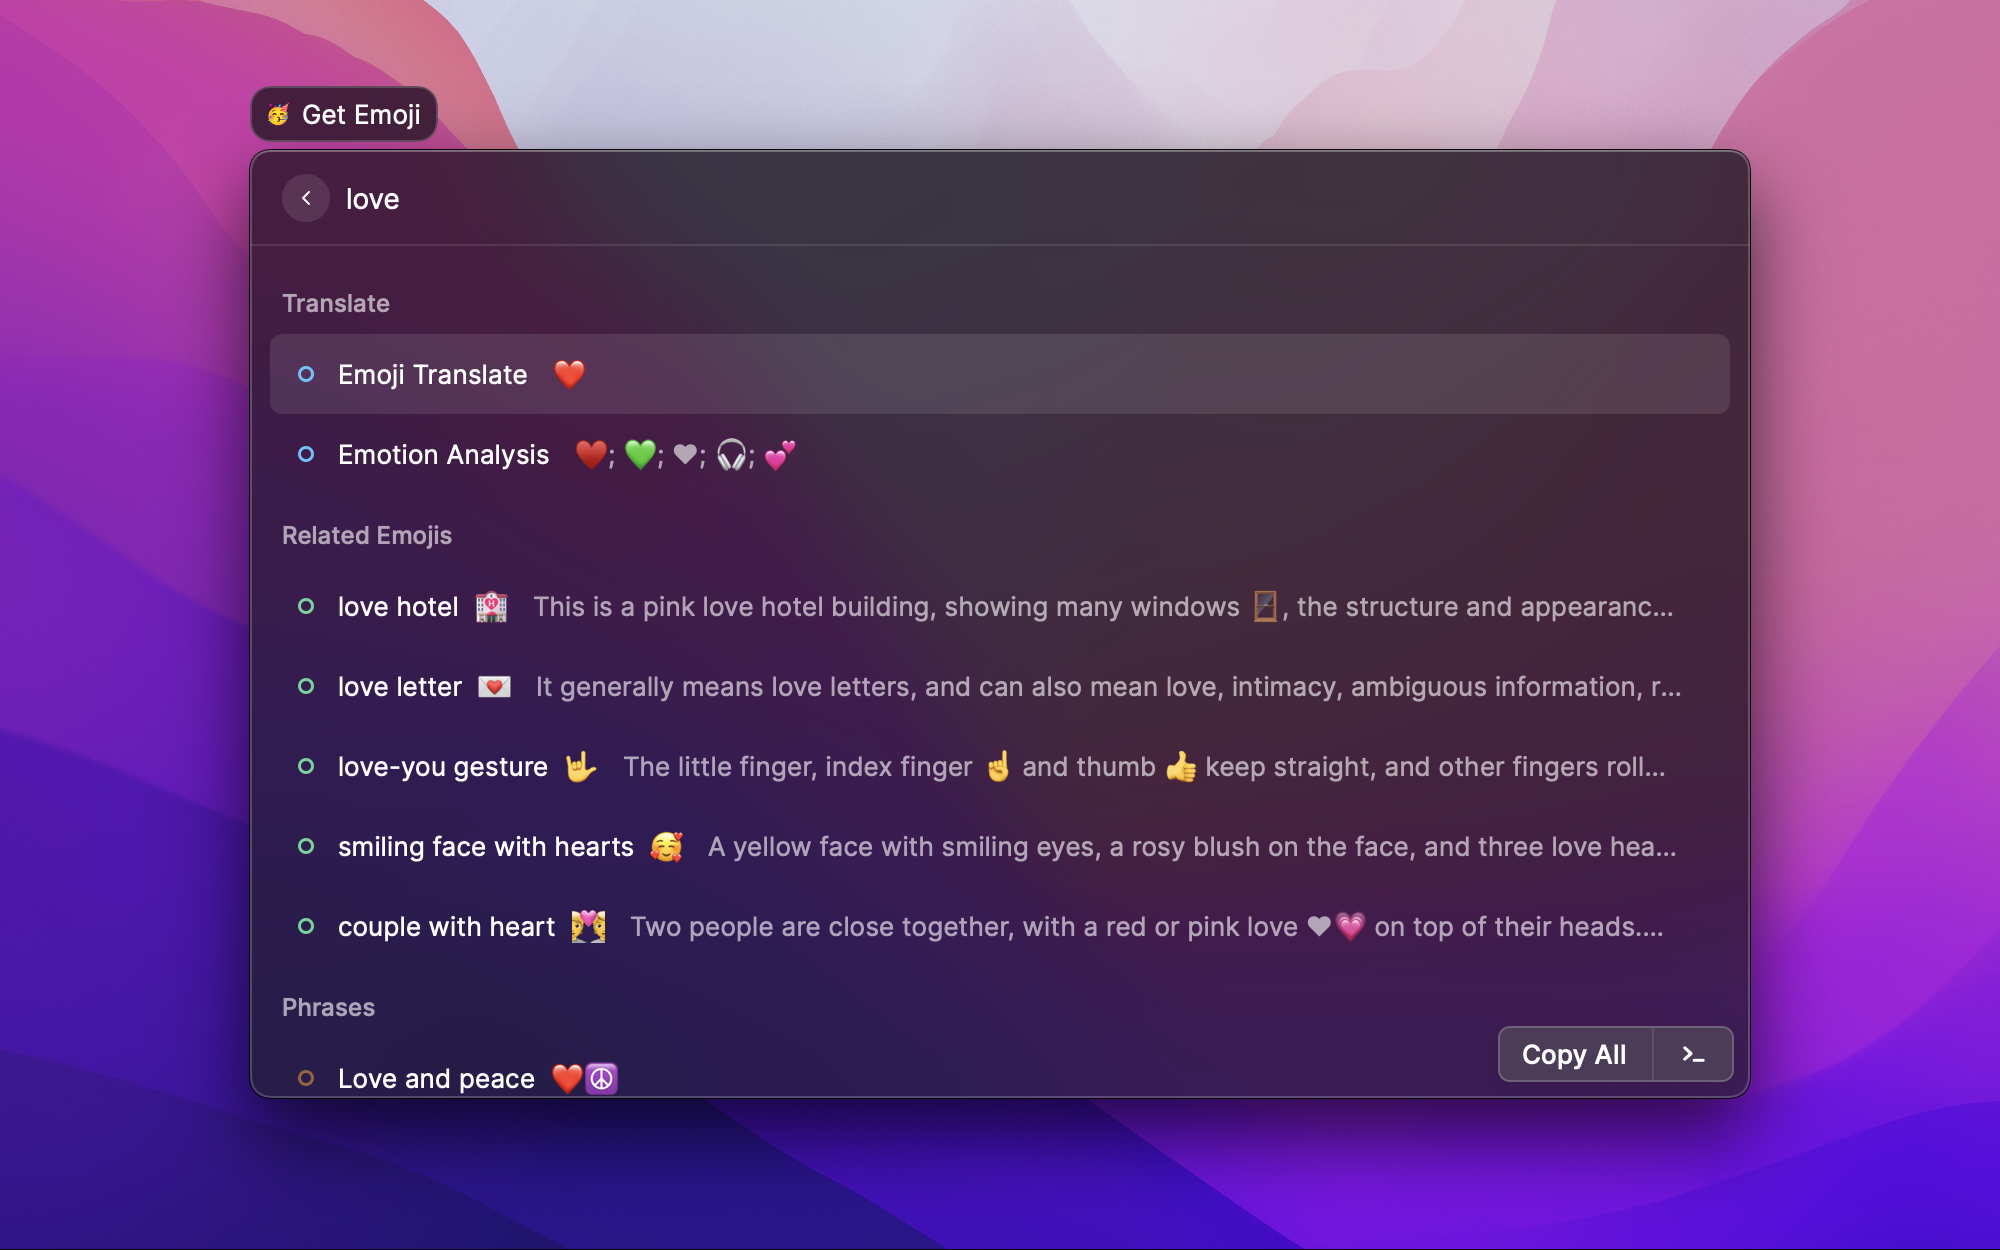
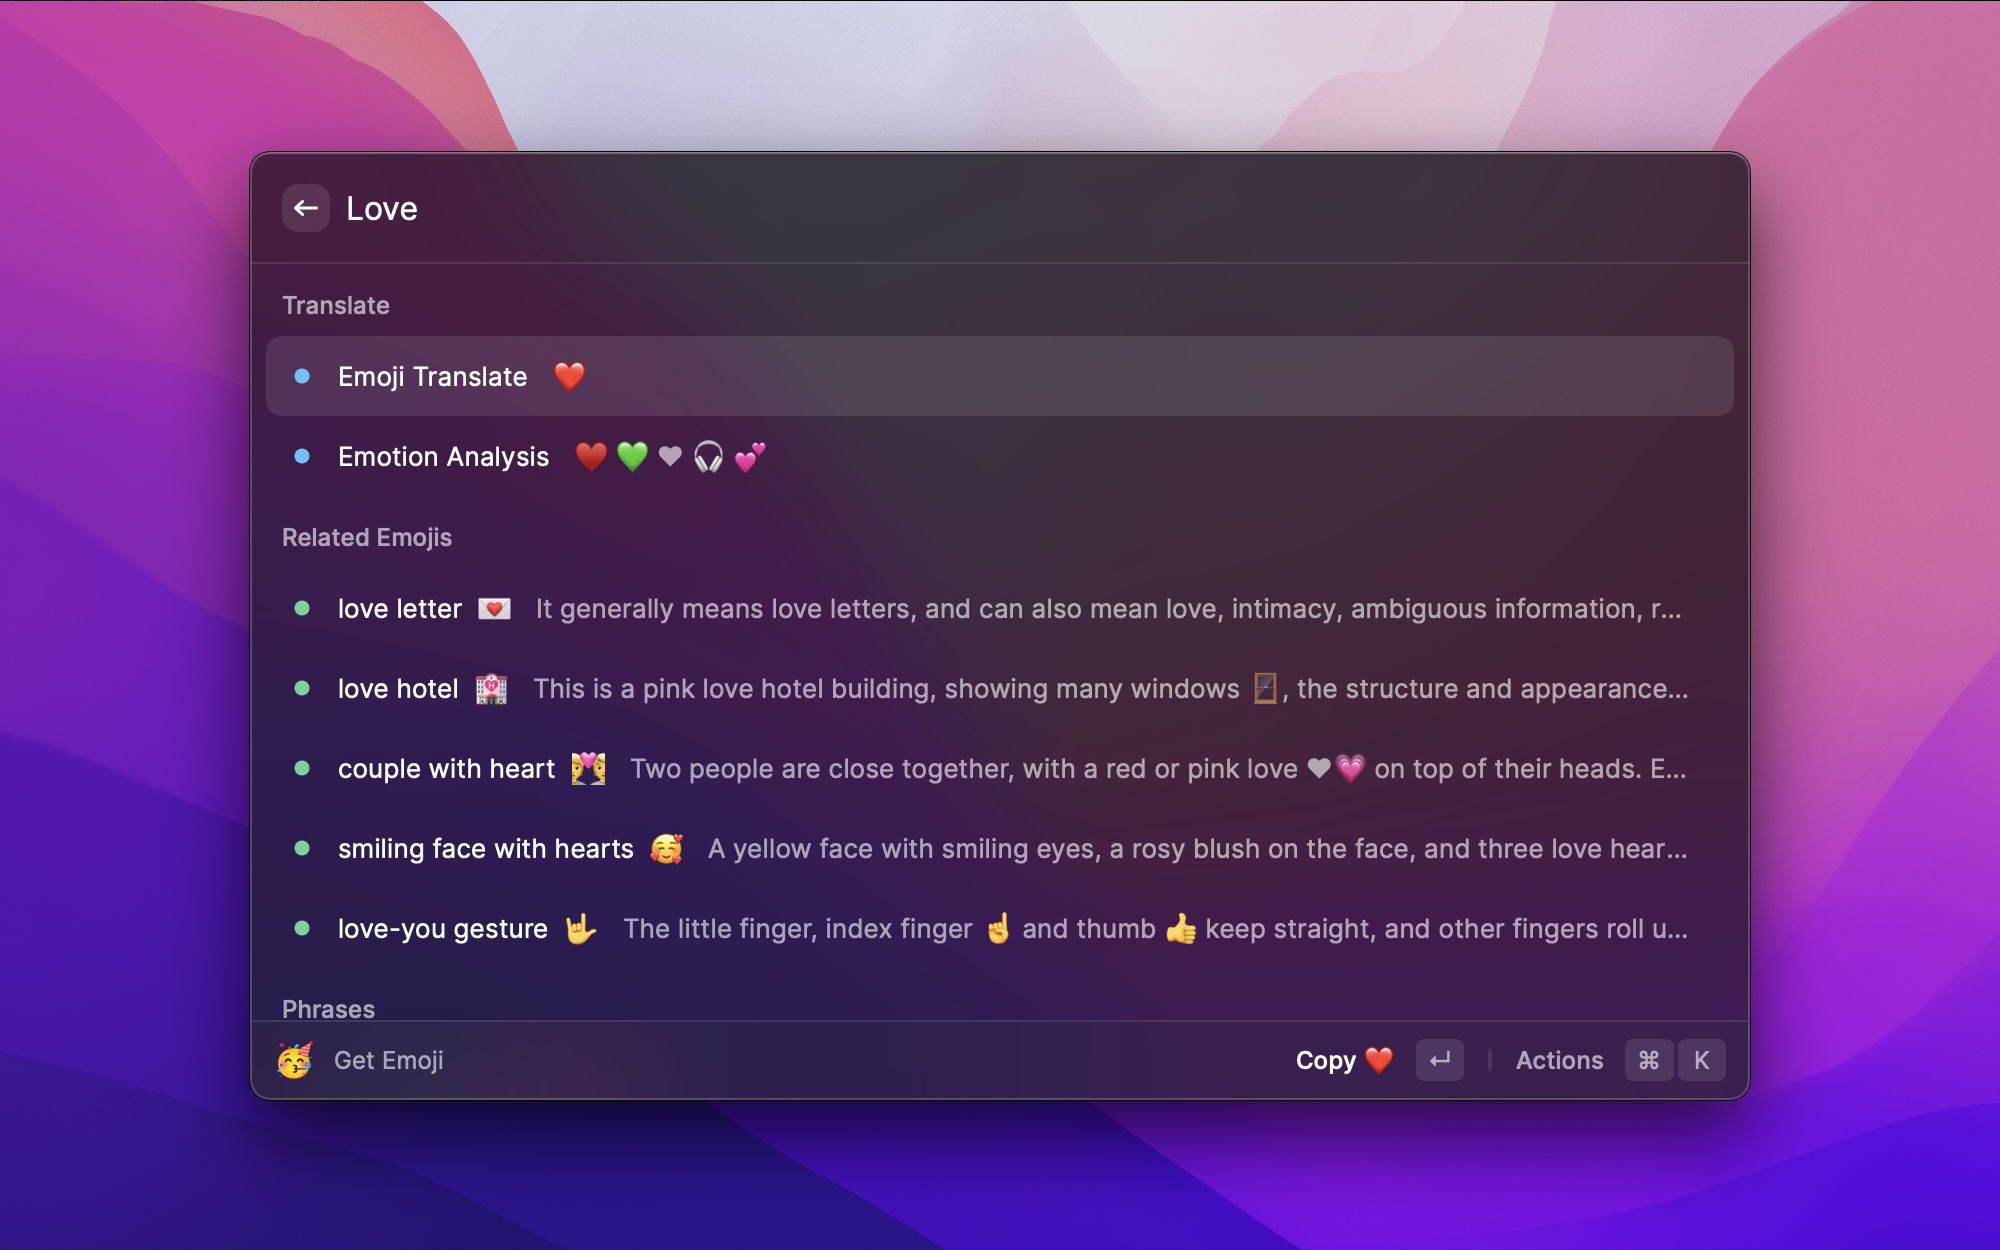
Update Screenshots & Remove Comments

diff --git a/src/dlmoji.tsx b/src/dlmoji.tsx
@@ -42,8 +42,8 @@ export default function () {
 
         // String Filter
         const queryGlobal: string = inputState
-        const queryText: string = queryGlobal //.replace(/陈炤伶|伶仔|伶伶/g, "公主").replace(/邓港大/g, "猪")
-        const queryEmoji: string = queryGlobal //.replace(/陈炤伶|伶仔|伶伶/g, "🐰").replace(/邓港大/g, "🦊")
+        const queryText: string = queryGlobal //.replace(/Jolin|Ling/g, "princess").replace(/Danny/g, "prince")
+        const queryEmoji: string = queryGlobal //.replace(/Jolin|Ling/g, "🐰").replace(/Danny/g, "🦊")
 
         const hasChinese = /[\u4E00-\u9FA5]+/g.test(queryText)
         const lang = hasChinese ? "zh" : "en"
@@ -53,9 +53,6 @@ export default function () {
         async function getDeepmoji(): Promise<ITranslateReformatResultItem | undefined> {
             let enText: string = queryText
             if (hasChinese) {
-                // const res = await fetchDeepl(queryText)
-                // enText = res.data.data
-
                 const res = await fetchBaiduTrans(queryText)
                 enText = formatBaiduTrans(res.data)
                 if (!enText) return

diff --git a/src/TranslateResult.tsx b/src/TranslateResult.tsx
@@ -18,7 +18,6 @@ function reformatCopyTextArray(data: string[], limitResultAmount = 10): IReforma
 
     return finalData.map((text, idx) => {
         return {
-            // title: finalData.length - 1 === idx && idx > 0 ? "All" : truncate(text),
             title: idx === dataLength && dataLength > 1 ? "All" : truncate(text, 40),
             value: text,
         }
@@ -88,7 +87,7 @@ class ListActionPanel extends Component<IListItemActionPanelItem> {
                     <ActionPanel.Section title="EmojiAll">
                         <Action.Push
                             icon={Icon.Document}
-                            title="Description"
+                            title="View Description"
                             shortcut={{ modifiers: ["cmd"], key: "enter" }}
                             target={
                                 <EmojiAllDescription

diff --git a/src/api.tsx b/src/api.tsx
@@ -119,11 +119,6 @@ export async function fetchEmojiTrans(queryText: string, fromLanguage: string, k
 
 export async function fetchEmojiAll(queryText: string, fromLanguage: string): Promise<any> {
     const lang = fromLanguage === "zh" ? "zh-hans" : fromLanguage
-
-    // let data = new FormData();
-    // data.append('keywords', queryText)
-    // data.append('lang', lang)
-
     return axios
         .post(
             "https://www.emojiall.com/elasticsearch/getData.php",
@@ -133,7 +128,6 @@ export async function fetchEmojiAll(queryText: string, fromLanguage: string): Pr
             }),
             {
                 headers: {
-                    // 'Content-Type': 'multipart/form-data',
                     referer: "https://www.emojiall.com/",
                 },
             }
